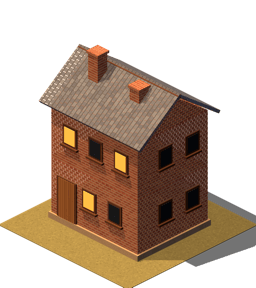
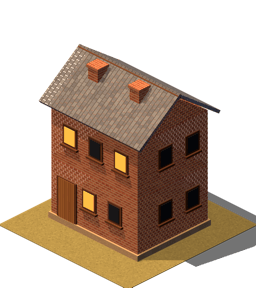
fix(isokit): raise the second industrial stack through the ridge, drop it on the mansard

Changed region(s): [[0.3438, 0.1562, 0.4688, 0.2812]]

diff --git a/Tools/IsoKit/Sources/IsoKitCore/Recipes/AgeRecipes.swift b/Tools/IsoKit/Sources/IsoKitCore/Recipes/AgeRecipes.swift
@@ -267,7 +267,10 @@ extension Recipes {
             roof: { $0 == 3 ? .mansard : .gable(.slate, pitch: 36) },
             chimney: .brick,
             extras: { kit, box in
-                kit.chimney(x: box.lo.x + 1.4, depth: (box.lo.z + box.hi.z) / 2 + 0.7, from: box.top, to: box.top + 2.6, finish: .brick)
+                // A second stack at the far gable end; the mansard has its own.
+                guard box.tier < 3 else { return }
+                let ridge = box.top + (box.hi.z - box.lo.z) / 2 * tan(36 * CGFloat.pi / 180)
+                kit.chimney(x: box.lo.x + 1.4, depth: (box.lo.z + box.hi.z) / 2 + 0.7, from: box.top, to: ridge + 0.3, finish: .brick)
             }
         ),
         "industrial-east-asian": AgeStyle(
